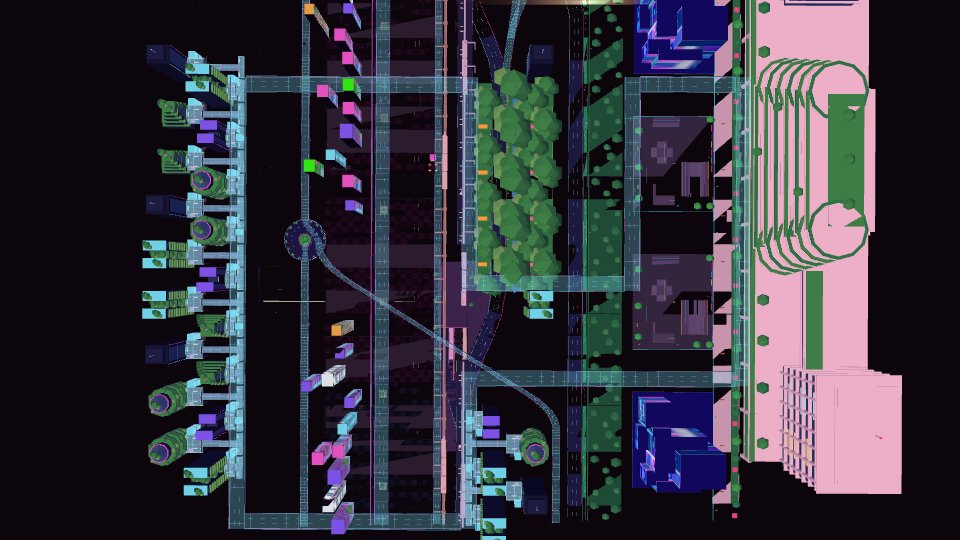
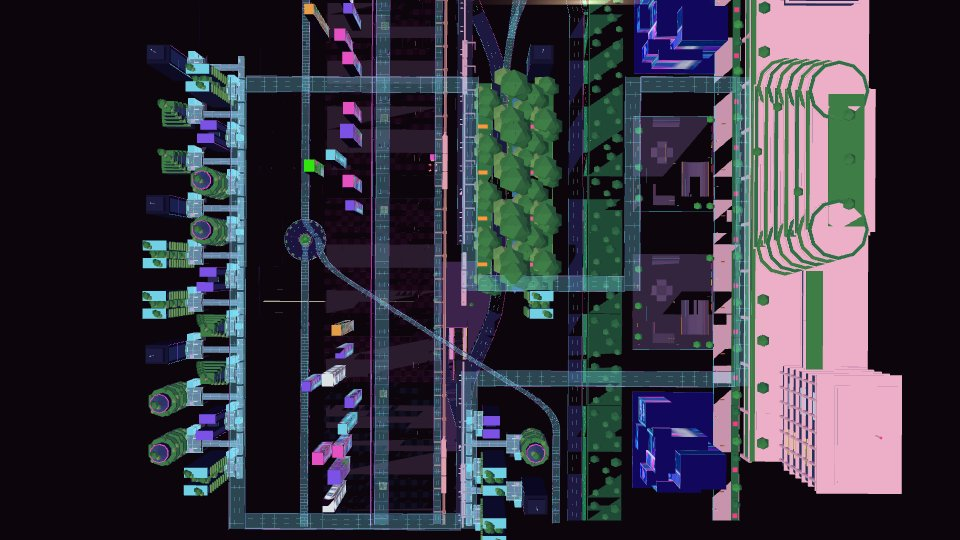
High loop: no picture tower where it crosses (slots 28 and 46)

diff --git a/src3d/env_canyon.js b/src3d/env_canyon.js
@@ -318,7 +318,7 @@ const NeonAvenue = {
       const prop = l === 12 ? 'lpGlass' : 'lpP' + l * 4; sizes[prop] = l; add(q, { prop, x, dist: (z0 + z1) / 2 - q * 12 }); }
     cross.forEach(([z, x0, x1], i) => { const q = Math.floor(z / 12); sizes['lpX' + i] = x1 - x0 - 2 * W; add(q, { prop: 'lpX' + i, x: (x0 + x1) / 2, dist: z - q * 12, rotY: Math.PI / 2 }); });
     for (const [x, q] of lifts) add(q, { prop: 'lpLift', x, dist: 6 });
-    return { H, W, slots, sizes }; })();
+    return { H, W, slots, sizes, clear: [Math.floor(N / 12), Math.floor(S / 12)] }; })();
   NeonAvenue.layout = (q, rnd, liftM) => {
     const CN0 = typeof NEON_CORNER !== 'undefined' ? NEON_CORNER.CANYON : 40, FAR = q >= CN0 && !!NeonAvenue.far, out = [{ prop: q >= CN0 && !FAR ? 'cnGlassD' + (q - CN0) : 'cnGlass', x: 0.001, dist: 6 }], CN = typeof NEON_CORNER !== 'undefined' ? NEON_CORNER.CANYON : 40, DN = typeof NEON_CORNER !== 'undefined' ? NEON_CORNER.DOWN : 6;      // (FAR: the Central District follows, the glass avenue goes straight on at its height, NEON_CORNER.far)
     if (q >= CN && !FAR) {                                                                     // THE WAY DOWN, a glass ramp too (the user): it comes down from the left onto the circuit, which runs below on the right and meets it
@@ -333,6 +333,7 @@ const NeonAvenue = {
     for (const s of [-1, 1]) {
       const k = mod(q * 3 + (s > 0 ? 5 : 0) + Math.floor(rnd(q * 2 + (s > 0 ? 1 : 0), 41) * 4), TW.length);
       const far = s > 0 ? 14 : 0;                                                    // (the user: the buildings on the right step back, so the ground down there is wide and seen from the road)
+      if (liftM > 3 && NeonAvenue.LOOP.clear.includes(q)) continue;      // (the user: no tower of the picture where the high loop crosses)
       if (s < 0) out.push({ prop: TW[k], x: s * (11 + far + rnd(q * 2 + (s > 0 ? 1 : 0), 42) * 9), dist: 6, dy: -liftM });      // (the user: a very large open space first on the right, for the joint to come; then (choice A) no tower on the right at all: the monorail city is seen whole)
       if (mod(q, 3) === 1 && s < 0) out.push({ prop: TW[mod(k + 3, TW.length)], x: s * (24 + far + rnd(q, 43 + s) * 8), dist: 2, dy: -liftM });      // (the user: no second row on the right: free ground behind the first, kept for the material to come)
     }
